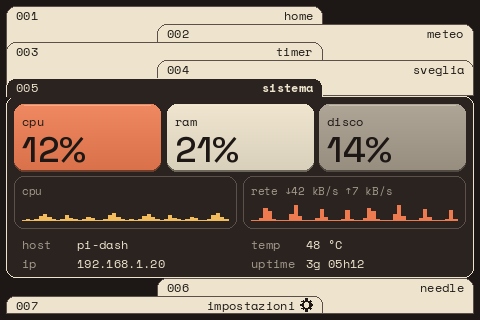
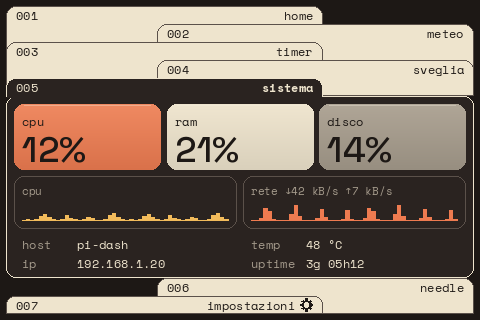
Togli le ombre e sposta la località dalla home alla scheda meteo
Claude-Session: https://claude.ai/code/session_01Apbx8p7nQq6Tz9RBWnoY8j

Changed region(s): [[0.6875, 0.5312, 0.9688, 0.5625], [0.375, 0.5312, 0.6562, 0.5625], [0.0312, 0.5312, 0.3125, 0.5625]]

diff --git a/dash/render/pages/home.py b/dash/render/pages/home.py
@@ -1,6 +1,6 @@
-"""Home: ora, data, luogo, anelli di settimana/mese/anno, alba/tramonto, avanzamento del giorno.
+"""Home: ora, data, anelli di settimana/mese/anno, alba/tramonto, avanzamento del giorno.
 
-Colonna sinistra allineata sul bordo: luogo, ora, data, righe in basso; anelli a destra.
+Colonna sinistra allineata sul bordo: ora, data, righe in basso; anelli a destra.
 """
 from __future__ import annotations
 
@@ -21,21 +21,14 @@ CLOCK_RAISE = 5  # pixel a 480×320 di cui l'ora sale rispetto al suo riquadro
 
 def draw(cv: Canvas, b: Box, app: App, now: datetime) -> None:
     clock: Any = app.page.widget
-    loc = getattr(clock, "location", None)
-    name, lat, lon = loc.snapshot() if loc is not None else ("", 0.0, 0.0)
     gap, lab_h, step = cv.gap, cv.height(cv.f_label), cv.row_step()
     # dal basso: due righe di dati, barra della giornata, data
     rows_y = b.bottom - step - lab_h
     bar = Box(b.x, rows_y - gap - cv.px(6), b.w, cv.px(6))
     date_h = cv.px(20)
     date_top = bar.y - gap - date_h
-    # in alto: luogo e coordinate
-    cv.label((b.x, b.y), f"loc // {name or 'n/d'}", "cream")
-    fonte = loc.kind() if loc is not None else ""  # gps / wifi / ip: quanto è affidabile
-    coord = f"{lat:.3f}n {lon:.3f}e" + (f" · {fonte}" if fonte in ("gps", "wifi", "ip") else "")
-    cv.label((b.right, b.y), coord, "tan", "ra", small=True)
     # in mezzo: ora a sinistra, anelli a destra (alti quanto ora + data)
-    band = Box(b.x, b.y + lab_h + gap, b.w, date_top - gap - (b.y + lab_h + gap))
+    band = Box(b.x, b.y, b.w, date_top - gap - b.y)
     side = min(band.h + gap + date_h, round(b.w * 0.30))
     # Mezzo passo di griglia in meno sotto l'ora: le cifre tonde scendono un filo sotto la linea
     # di base e la data (ancora "ld") sale un filo sopra la sua riga, e con il riquadro pieno

diff --git a/dash/render/canvas.py b/dash/render/canvas.py
@@ -67,11 +67,10 @@ class Canvas:
                                  width=self.line if width is None else width)
 
     def solid(self, box: Box | tuple[float, float, float, float], fill: str, r: int | None = None,
-              depth: bool = True) -> None:
-        """Pannello a rilievo: ombra morbida sotto, sfumatura leggera dall'alto, filo di luce.
+) -> None:
+        """Pannello a rilievo: sfumatura leggera dall'alto e filo di luce, senza ombre.
 
-        Stesso ingombro di `rect`: l'ombra cade nello spazio fra pannelli (`gap`). Con `depth`
-        falso (cartelle, linguette) disegna solo la sfumatura e il filo di luce.
+        Stesso ingombro di `rect`.
         """
         xy = tuple(round(v) for v in (box.rect if isinstance(box, Box) else box))
         r = self.radius if r is None else r
@@ -79,10 +78,6 @@ class Canvas:
         if w < 4 or h < 4:
             self.rect(xy, fill, r=r)
             return
-        if depth:
-            dy = self.px(2)
-            self.d.rounded_rectangle((xy[0], xy[1] + dy, xy[2], xy[3] + dy), radius=r,
-                                     fill=self.mix(fill, "bg", 0.62))
         top, bottom = self.mix(fill, "paper", 0.12), self.mix(fill, "ink", 0.10)
         key = (w + 1, h + 1, r, top, bottom)
         body = _GRADIENTS.get(key)
@@ -102,7 +97,7 @@ class Canvas:
 
     def key(self, box: Box, fill: str, outline: Color | None, width: int | None = None) -> None:
         """Bottone in rilievo: sfumatura, contorno e un'ombra sottile lungo il bordo basso."""
-        self.solid(box, fill, depth=False)
+        self.solid(box, fill)
         self.rect(box, None, outline, width)
         r, y = self.radius, round(box.y + box.h) - 2
         self.d.line((round(box.x) + r, y, round(box.x + box.w) - r, y),

diff --git a/dash/render/pages/weather.py b/dash/render/pages/weather.py
@@ -56,7 +56,8 @@ def draw(cv: Canvas, b: Box, app: App, now: datetime) -> None:
         cb = Box(round(mid.x + i * (cw + g)), mid.y, round(cw), mid.h)
         cv.panel(cb, col, k, v, ref="1013", slot=f"weather.{k}")
     # riga 4 (in fondo): sole e luna
-    cv.label((b.x, b.bottom), f"alba {_hhmm(wx.daily(data, 'sunrise'))} · "
+    name = wx.location.snapshot()[0]
+    cv.label((b.x, b.bottom), f"{name or 'n/d'} · alba {_hhmm(wx.daily(data, 'sunrise'))} · "
              f"tramonto {_hhmm(wx.daily(data, 'sunset'))}", "cream", "ld", small=True)
     phase = moon_phase(now)
     cv.label((b.right, b.bottom), f"luna {moon_name(phase).lower()} "

diff --git a/dash/widgets/weather.py b/dash/widgets/weather.py
@@ -241,7 +241,8 @@ class WeatherWidget(Widget):
 
     def state_key(self, now: datetime) -> Hashable:
         with self._lock:
-            return (self._version, self.error, now.strftime("%Y%m%d%H"))
+            return (self._version, self.error, now.strftime("%Y%m%d%H"),
+                    self.location.snapshot(), self.location.kind())
 
     def snapshot(self) -> dict[str, Any] | None:
         with self._lock:

diff --git a/CHANGELOG.md b/CHANGELOG.md
@@ -8,7 +8,9 @@
 - Cursore: `dash/display/fb.py` ora lo nasconde (`ESC[?25l` su tty0 e tty1, ripetuto ogni 20 s)
   anche quando `KDSETMODE` non è permesso; nuovo `scripts/console-silenziosa.sh` (da lanciare una
   volta sul Pi) per togliere login, messaggi e cursore dalla console dello schermo. Guida § 5.5.
-- **Grafica con più rilievo**: pannelli con ombra, sfumatura e filo di luce (`Canvas.solid`),
+- **Località sulla scheda meteo**: il nome del luogo sta in fondo alla pagina meteo, accanto
+  all'alba; la home non lo mostra più e l'ora ha più spazio.
+- **Grafica con più rilievo**: pannelli con sfumatura e filo di luce, senza ombre (`Canvas.solid`),
   bottoni in rilievo (`Canvas.key`), riflesso sulle barre, icona del tempo sulla pagina meteo
   (`Canvas.icon`). Le funzioni non cambiano; anteprime rigenerate.
 
